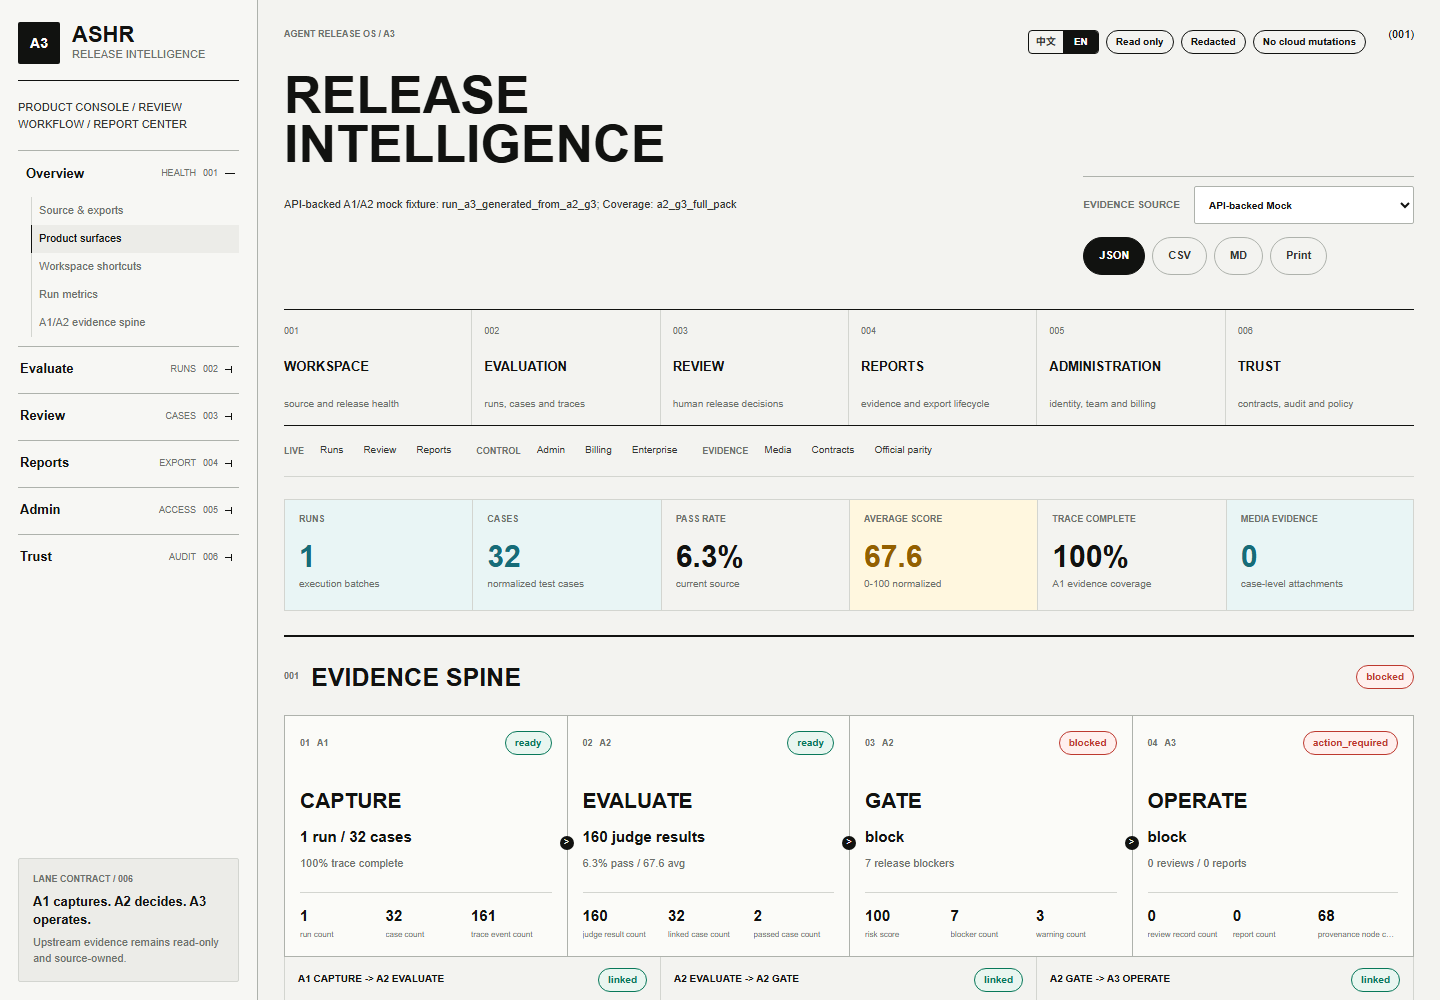
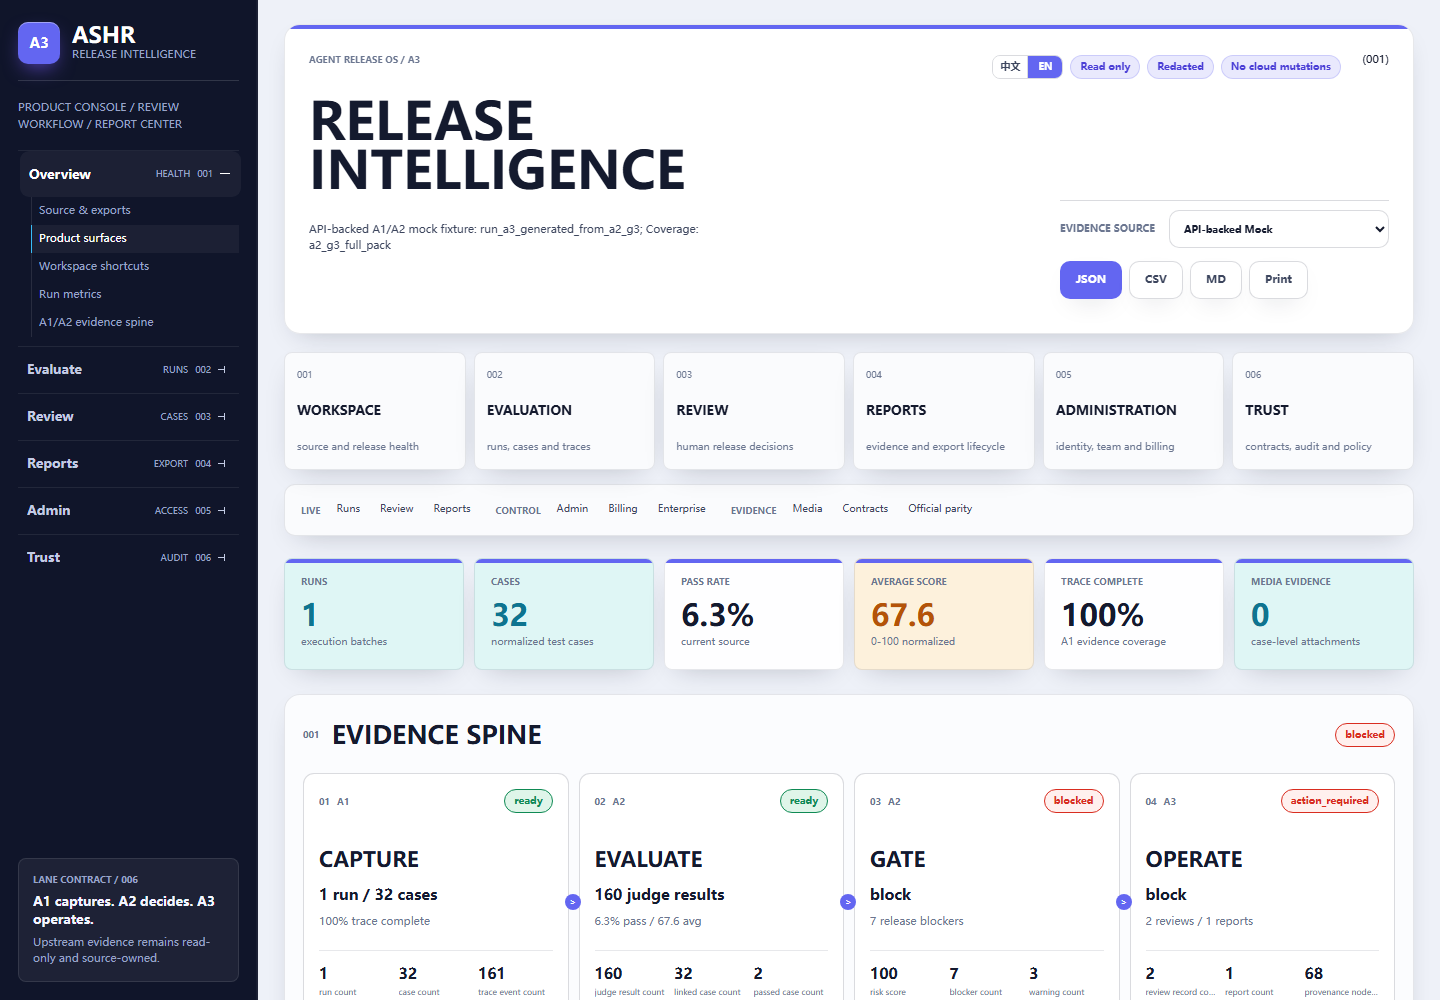
fix(a3): align dashboard visual acceptance contracts

diff --git a/apps/dashboard/src/styles.css b/apps/dashboard/src/styles.css
@@ -14,14 +14,14 @@
   --warn: #b45309;
   --warn-bg: #fdf1dc;
   --fail: #d92d20;
-  --fail-bg: #fdeceb;
+  --fail-bg: #fff0ee;
   --info: #0e7490;
   --info-bg: #dff6f5;
   --brand: #5b5bf0;
   --brand-2: #7c5cff;
   --brand-3: #38bdf8;
-  --accent-grad: linear-gradient(135deg, #6366f1 0%, #8b5cf6 50%, #38bdf8 100%);
-  --accent-grad-soft: linear-gradient(135deg, rgba(99, 102, 241, 0.14), rgba(56, 189, 248, 0.12));
+  --accent-grad: #6366f1;
+  --accent-grad-soft: rgba(99, 102, 241, 0.14);
   --nav: #10152a;
   --nav-2: #191f3d;
   --nav-text: #c3cbe4;
@@ -65,10 +65,7 @@ html {
 body {
   margin: 0;
   min-width: 320px;
-  background:
-    radial-gradient(1100px 620px at 15% -8%, rgba(124, 92, 255, 0.16), transparent 60%),
-    radial-gradient(980px 560px at 105% 0%, rgba(56, 189, 248, 0.16), transparent 55%),
-    linear-gradient(180deg, var(--paper) 0%, #e5e9f4 100%);
+  background: var(--paper);
   background-attachment: fixed;
   color: var(--ink);
   font-family: inherit;
@@ -140,9 +137,7 @@ code {
   padding: 22px 18px 18px;
   overflow-y: auto;
   color: #f4f6ff;
-  background:
-    radial-gradient(140% 55% at 0% 0%, rgba(124, 92, 255, 0.32), transparent 55%),
-    linear-gradient(180deg, var(--nav-2) 0%, var(--nav) 100%);
+  background: var(--nav);
   border-right: 1px solid rgba(255, 255, 255, 0.06);
   box-shadow: inset -1px 0 0 rgba(255, 255, 255, 0.04);
 }
@@ -246,7 +241,7 @@ code {
 }
 
 .nav-link.active {
-  background: linear-gradient(90deg, rgba(124, 92, 255, 0.28), rgba(56, 189, 248, 0.08));
+  background: rgba(124, 92, 255, 0.18);
 }
 
 .nav-link.active::before {
@@ -338,7 +333,7 @@ code {
   color: #f4f6ff;
   background: rgba(255, 255, 255, 0.06);
   border: 1px solid rgba(255, 255, 255, 0.1);
-  border-radius: 11px;
+  border-radius: 8px;
 }
 
 .sidebar-card-kicker,
@@ -381,7 +376,7 @@ code {
   margin-top: 24px;
   padding: 28px 24px 34px;
   overflow: hidden;
-  background: linear-gradient(135deg, rgba(255, 255, 255, 0.96), rgba(255, 255, 255, 0.82));
+  background: rgba(255, 255, 255, 0.96);
   border: 1px solid var(--line);
   border-radius: 16px;
   box-shadow: var(--shadow-soft);
@@ -610,7 +605,7 @@ a:focus-visible {
   padding: 15px 12px;
   background: rgba(255, 255, 255, 0.72);
   border: 1px solid var(--line);
-  border-radius: 11px;
+  border-radius: 8px;
   box-shadow: var(--shadow-soft);
   transition: background-color 150ms ease, padding 150ms ease, transform 150ms ease, box-shadow 150ms ease;
 }
@@ -711,7 +706,7 @@ a:focus-visible {
   overflow: hidden;
   background: var(--surface);
   border: 1px solid var(--line);
-  border-radius: 11px;
+  border-radius: 8px;
   box-shadow: var(--shadow-soft);
   transition: transform 160ms ease, box-shadow 200ms ease;
 }
@@ -800,7 +795,7 @@ a:focus-visible {
   min-width: 0;
   min-height: 238px;
   padding: 15px;
-  background: linear-gradient(160deg, #ffffff, var(--surface-hover));
+  background: #ffffff;
   border: 1px solid var(--line-strong);
   border-radius: 11px;
 }
@@ -1023,7 +1018,7 @@ a:focus-visible {
   overflow: hidden;
   background: var(--surface);
   border: 1px solid var(--line);
-  border-radius: 16px;
+  border-radius: 8px;
   box-shadow: var(--shadow);
   backdrop-filter: blur(6px);
   transition: border-color 160ms ease, box-shadow 200ms ease, transform 160ms ease;
@@ -1042,7 +1037,7 @@ a:focus-visible {
   min-width: 0;
   min-height: 48px;
   padding: 15px 18px;
-  background: linear-gradient(180deg, rgba(255, 255, 255, 0.6), transparent);
+  background: rgba(255, 255, 255, 0.6);
   border-bottom: 1px solid var(--line);
 }
 
@@ -1141,7 +1136,7 @@ a:focus-visible {
   min-width: 0;
   min-height: 82px;
   padding: 11px;
-  background: linear-gradient(160deg, #fff, var(--surface-hover));
+  background: #fff;
   border: 1px solid var(--line);
   border-radius: 11px;
 }
@@ -1169,7 +1164,7 @@ a:focus-visible {
   display: block;
   width: 0;
   height: 100%;
-  background: linear-gradient(90deg, var(--pass), #34d399);
+  background: var(--pass);
   border-radius: 999px;
   transition: width 500ms cubic-bezier(0.22, 1, 0.36, 1);
 }
@@ -1208,7 +1203,7 @@ a:focus-visible {
   min-width: 0;
   min-height: 76px;
   padding: 12px;
-  background: linear-gradient(160deg, #ffffff, var(--surface-hover));
+  background: #ffffff;
   border: 1px solid var(--line);
   border-radius: 11px;
   transition: transform 140ms ease, box-shadow 140ms ease;
@@ -1503,7 +1498,7 @@ tbody tr:hover td {
   gap: 14px;
   min-width: 0;
   padding: 14px;
-  background: linear-gradient(160deg, #fff, var(--surface-hover));
+  background: #fff;
   border: 1px solid var(--line);
   border-radius: 11px;
   box-shadow: var(--shadow-soft);
@@ -1607,7 +1602,7 @@ tbody tr:hover td {
 }
 
 .case-row:hover {
-  background: #fff;
+  background: #f6f9fa;
   border-color: rgba(99, 102, 241, 0.4);
   transform: translateY(-1px);
   box-shadow: var(--shadow-soft);
@@ -1615,7 +1610,7 @@ tbody tr:hover td {
 
 .case-row.active {
   color: var(--ink);
-  background: linear-gradient(120deg, rgba(99, 102, 241, 0.09), rgba(56, 189, 248, 0.06));
+  background: rgba(99, 102, 241, 0.09);
   border-color: transparent;
   box-shadow: inset 3px 0 0 var(--brand), var(--shadow-soft);
 }
